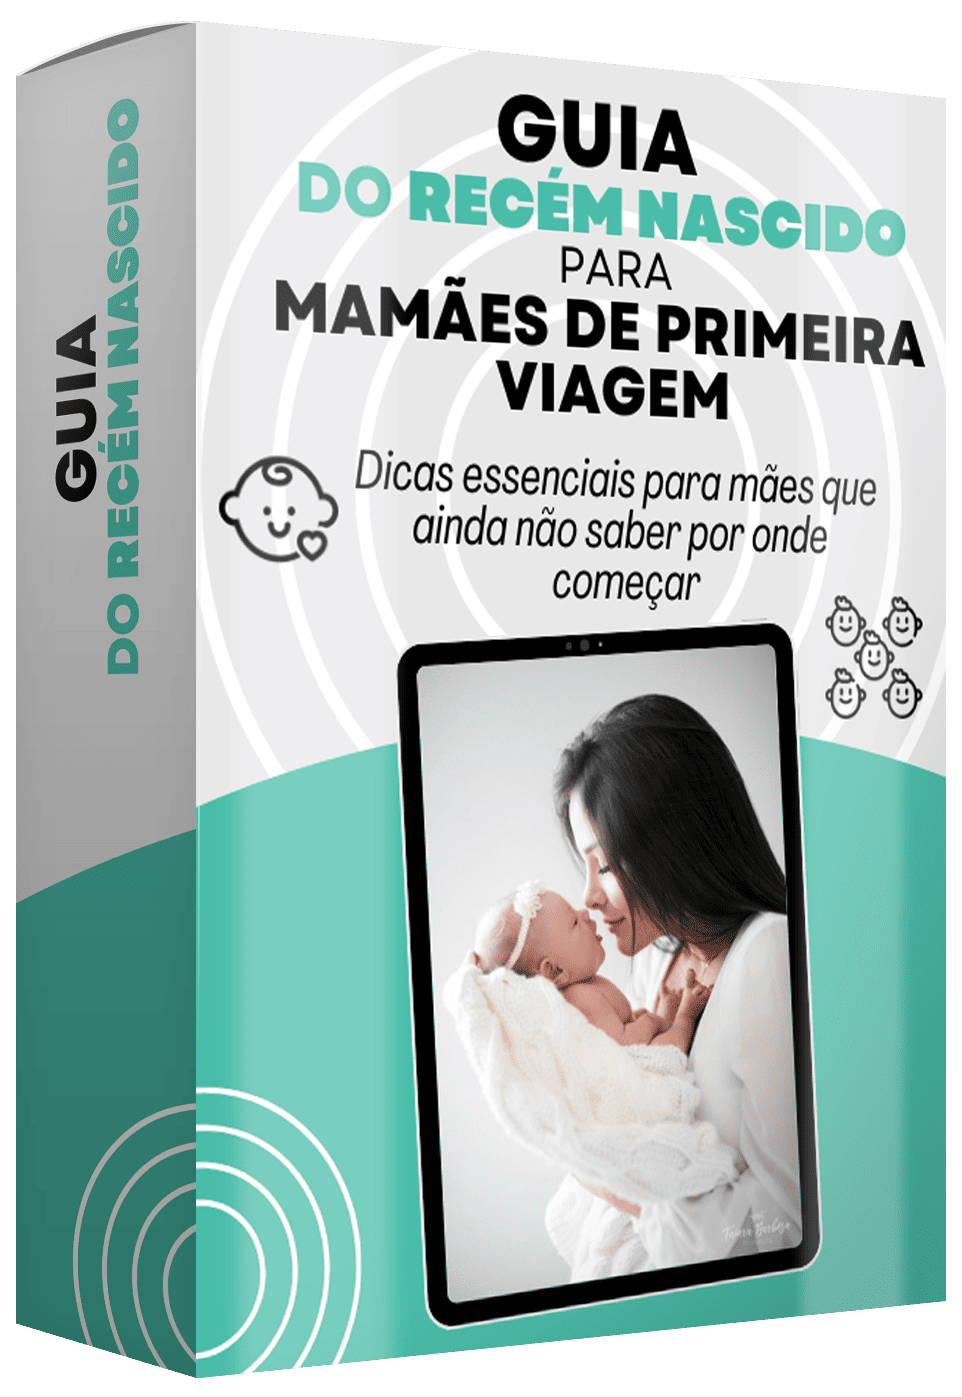
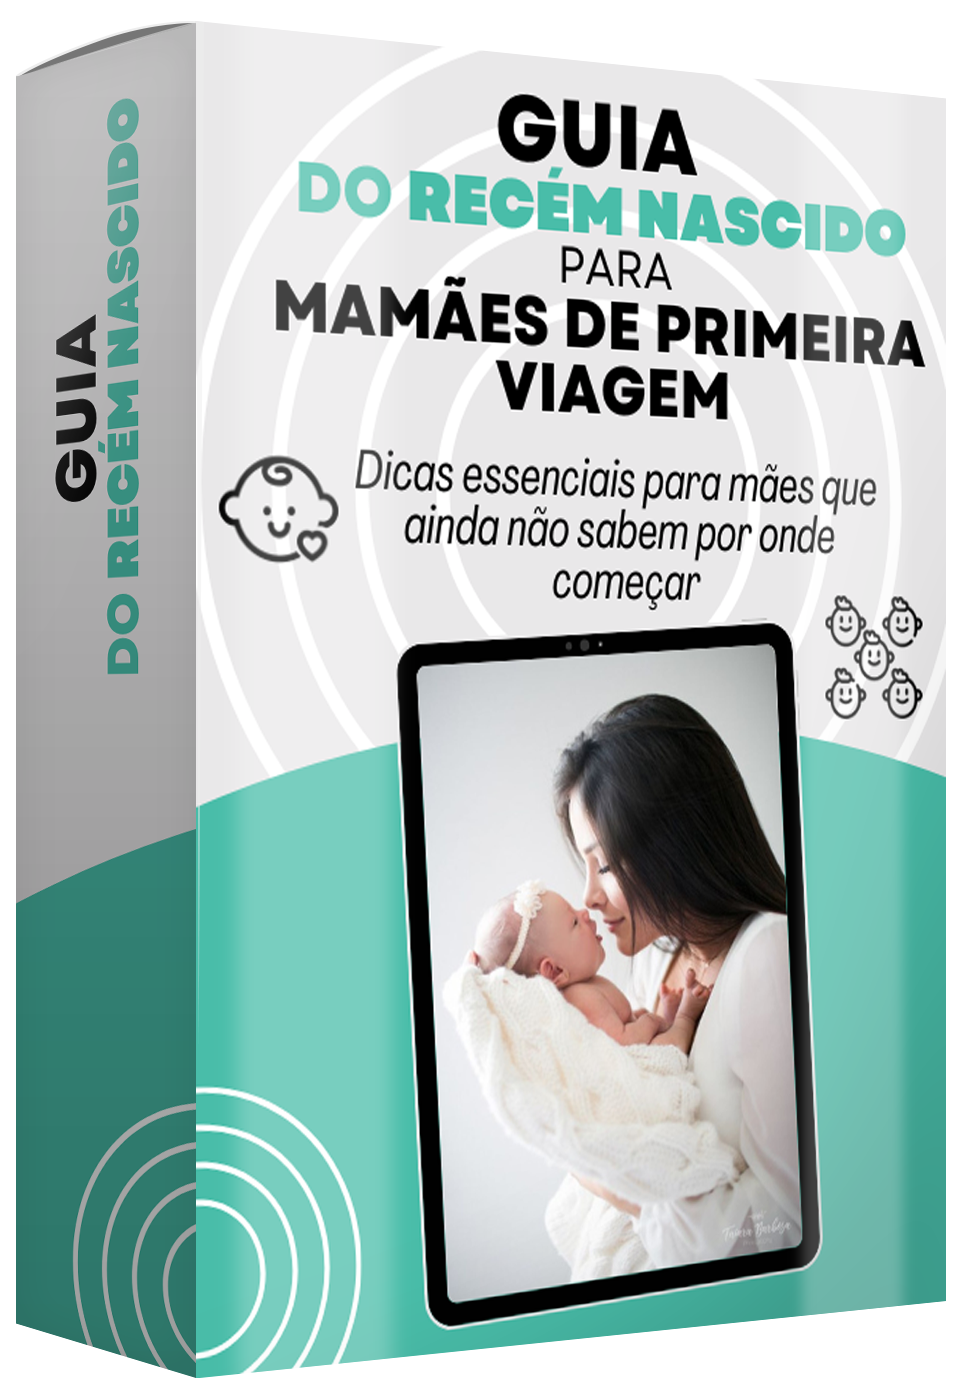
fix ebook and texts

Changed region(s): [[0.4054, 0.3694, 0.8732, 0.4001], [0.7173, 0.6464, 0.7484, 0.6772]]

diff --git a/guia-do-recem-nascido-para-mamaes-de-primeira-viagem/index.html b/guia-do-recem-nascido-para-mamaes-de-primeira-viagem/index.html
@@ -94,11 +94,11 @@
         <div class="about-content">
             <div class="about-text">
                 <h2 class="section-title">Sobre o Guia</h2>
-                <p>Através de milhares dos depoimentos de milhares de mães e com o direcionamento de especialistas, criamos esse guia completo com métodos validados para que você se sinta mais segura e confiante nos cuidados com o seu bebê</p>
+                <p>Por meio de milhares de depoimentos de mães e com a orientação de especialistas, criamos este guia completo com métodos validados para que você se sinta mais segura e confiante nos cuidados com o seu bebê.</p>
                 <p>Com linguagem simples e direta, você terá acesso a informações confiáveis e práticas que vão facilitar sua jornada na maternidade.</p>
                 <ul class="bonus-list">
-                    <li>Mais de 32 páginas de conteúdo exclusivo</li>
-                    <li>Checklists prático da rotina com seu bebê</li>
+                    <li>Mais de 32 páginas de conteúdos exclusivos</li>
+                    <li>Checklists práticos da rotina com seu bebê</li>
                     <li>Dicas de especialistas em pediatria</li>
                     <li>Acesso imediato e vitalício</li>
                 </ul>
